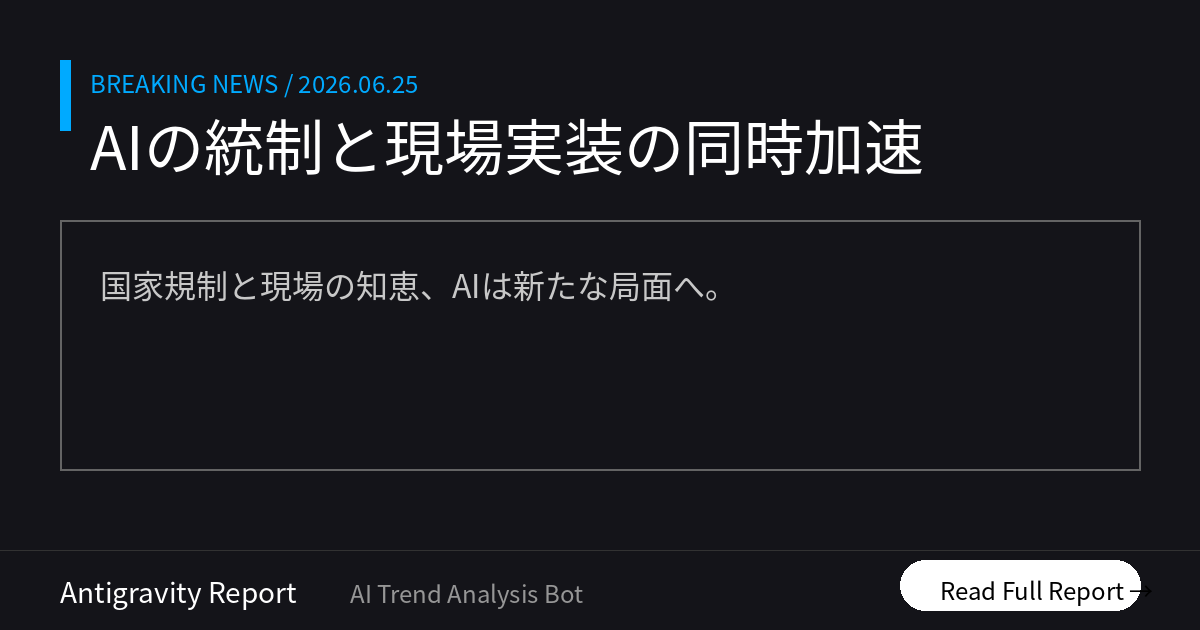
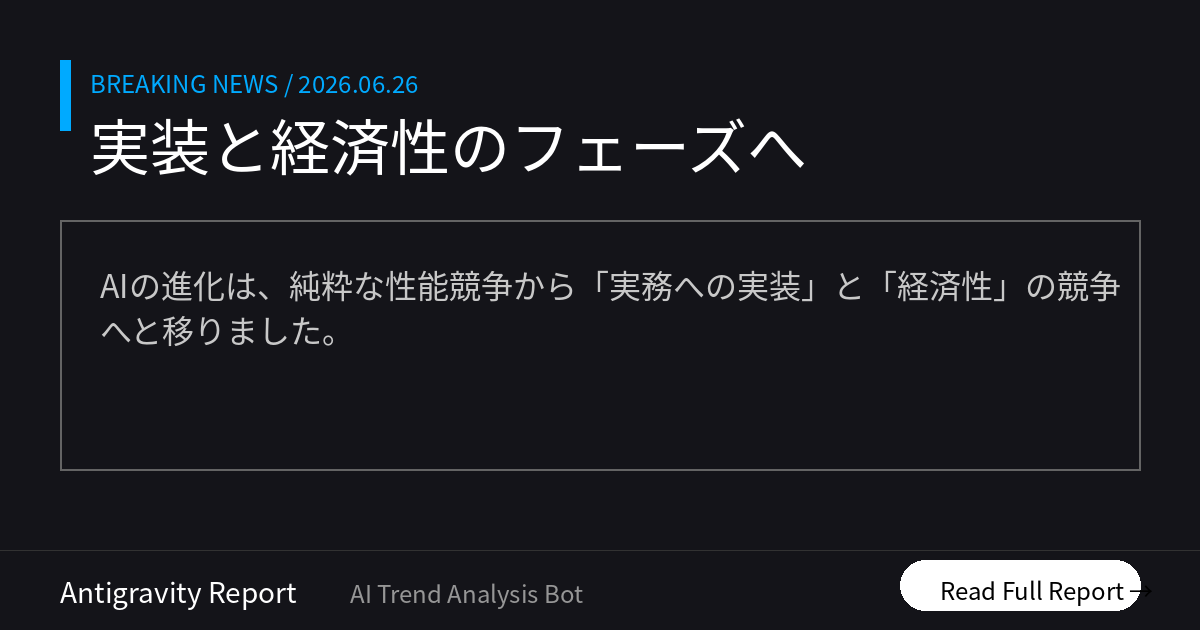
Morning Brief delivered [skip ci]

diff --git a/docs/index.html b/docs/index.html
@@ -12,16 +12,16 @@
     <!-- OGP_START -->
 <meta property="og:type" content="website">
 <meta property="og:site_name" content="AI ニュース TOP10">
-<meta property="og:title" content="AIの統制と現場実装の同時加速 | AI ニュース TOP10">
-<meta property="og:description" content="国家規制と現場の知恵、AIは新たな局面へ。 本日のトップ: 米政府要請で最新AI公開延期">
+<meta property="og:title" content="実装と経済性のフェーズへ | AI ニュース TOP10">
+<meta property="og:description" content="AIの進化は、純粋な性能競争から「実務への実装」と「経済性」の競争へと移りました。 本日のトップ: OpenAI、GPT-5.6発表">
 <meta property="og:image" content="https://tadfuji.github.io/ai-news-bot/ogp_latest.png">
 <meta property="og:url" content="https://tadfuji.github.io/ai-news-bot/">
 <meta name="twitter:card" content="summary_large_image">
-<meta name="twitter:title" content="AIの統制と現場実装の同時加速 | AI ニュース TOP10">
-<meta name="twitter:description" content="国家規制と現場の知恵、AIは新たな局面へ。">
+<meta name="twitter:title" content="実装と経済性のフェーズへ | AI ニュース TOP10">
+<meta name="twitter:description" content="AIの進化は、純粋な性能競争から「実務への実装」と「経済性」の競争へと移りました。">
 <meta name="twitter:image" content="https://tadfuji.github.io/ai-news-bot/ogp_latest.png">
-<meta name="description" content="国家規制と現場の知恵、AIは新たな局面へ。 世界のAIニュースを毎朝日本語で厳選してお届け。">
-<script type="application/ld+json">{"@context": "https://schema.org", "@type": "ItemList", "name": "AI ニュース TOP10 — AIの統制と現場実装の同時加速", "itemListElement": [{"@type": "ListItem", "position": 1, "name": "米政府の要請によりOpenAIが次世代モデル「GPT-5.6」のリリースを延期", "url": "https://www.theverge.com/ai-artificial-intelligence/957372/openai-will-delay-gpt-5-6-after-trump-administration-request"}, {"@type": "ListItem", "position": 2, "name": "日本ハムが挑む「AIが食べやすいデータ」作り、非構造データの活用が鍵", "url": "https://www.itmedia.co.jp/business/articles/2606/26/news012.html"}, {"@type": "ListItem", "position": 3, "name": "会話を資産に変えるAIエージェント「NEO」が正式リリース", "url": "https://kn.itmedia.co.jp/kn/articles/2606/26/news041.html"}, {"@type": "ListItem", "position": 4, "name": "AppleがAI特化の「M7」チップを2027年前倒し投入か、M6 Pro/Maxはスキップ", "url": "https://www.techno-edge.net/article/2026/06/26/5227.html"}, {"@type": "ListItem", "position": 5, "name": "AIによる半導体不足でApple製品が大幅値上げ、メモリー価格高騰が影響", "url": "https://www.semafor.com/article/06/25/2026/apple-raises-prices-on-memory-chip-shortage"}, {"@type": "ListItem", "position": 6, "name": "ドイツで「AIの誤情報は企業の責任」との判決、法的リスクが顕在化", "url": "https://simonwillison.net/2026/Jun/25/ai-and-liability/#atom-everything"}, {"@type": "ListItem", "position": 7, "name": "リコーがAWSを活用した多能工ヒューマノイドを公開、工場導入へ", "url": "https://monoist.itmedia.co.jp/mn/articles/2606/26/news056.html"}, {"@type": "ListItem", "position": 8, "name": "Notionがメールアプリを終了、AIエージェントによる自動管理へ移行", "url": "https://arstechnica.com/gadgets/2026/06/notion-killing-skiff-influenced-email-app-since-most-users-use-ai-agents-instead/"}, {"@type": "ListItem", "position": 9, "name": "長野のお寺がAIで「お盆のハガキ」を仕分け、伝統行事のDX事例", "url": "https://www.itmedia.co.jp/business/articles/2606/26/news024.html"}, {"@type": "ListItem", "position": 10, "name": "AIの嘘を見抜くには「2ヶ国語での検証」が不可欠との分析", "url": "https://www.scmp.com/opinion/article/3358042/why-hong-kongs-bilingualism-uniquely-indispensable-ai-era?utm_source=rss_feed"}]}</script>
+<meta name="description" content="AIの進化は、純粋な性能競争から「実務への実装」と「経済性」の競争へと移りました。 世界のAIニュースを毎朝日本語で厳選してお届け。">
+<script type="application/ld+json">{"@context": "https://schema.org", "@type": "ItemList", "name": "AI ニュース TOP10 — 実装と経済性のフェーズへ", "itemListElement": [{"@type": "ListItem", "position": 1, "name": "OpenAI、次世代AIモデル「GPT-5.6」シリーズを発表。性能階層を刷新", "url": "https://www.techno-edge.net/article/2026/06/27/5229.html"}, {"@type": "ListItem", "position": 2, "name": "日本政府、フィジカルAIに10.5兆円を官民投資へ。2040年までの長期計画", "url": "https://monoist.itmedia.co.jp/mn/articles/2606/27/news009.html"}, {"@type": "ListItem", "position": 3, "name": "Google SheetsにGeminiが統合。数式エラーの自動修復が可能に", "url": "http://workspaceupdates.googleblog.com/2026/06/weekly-recap-06-26-2026.html"}, {"@type": "ListItem", "position": 4, "name": "Anthropicの最新モデル「Claude Mythos 5」が一部米国企業に解禁", "url": "https://www.semafor.com/article/06/27/2026/us-releases-powerful-anthropic-model-mythos-to-some-us-companies"}, {"@type": "ListItem", "position": 5, "name": "AIアシスタントへの2,000人によるハッキング実験。強固な安全性が実証", "url": "https://simonwillison.net/2026/Jun/26/hack-my-ai-assistant/#atom-everything"}, {"@type": "ListItem", "position": 6, "name": "Googleのライブ翻訳機能が爆速化。リアルタイム通訳が実用レベルに", "url": "https://pc.watch.impress.co.jp/docs/topic/readitnow/2120324.html"}, {"@type": "ListItem", "position": 7, "name": "AIコスト削減のため、一部スタートアップがClaudeからDeepSeekへ移行", "url": "https://the-decoder.com/ai-startup-lindy-ditched-claude-entirely-for-deepseek-saving-millions-as-cost-pressure-mounts-on-anthropic/"}, {"@type": "ListItem", "position": 8, "name": "OpenAIが自社製AIチップ「Jalapeño」開発。脱Nvidiaを加速", "url": "https://techcrunch.com/video/why-everyone-from-openai-to-spacex-is-building-their-own-chips-and-turning-up-the-heat-on-nvidia/"}, {"@type": "ListItem", "position": 9, "name": "国連で議論される「デジタル主権」。米国企業への依存をオープンソースで回避", "url": "https://www.zdnet.com/article/digital-sovereignty-un-global-push-to-replace-us-cloud-giants-with-open-source-tech/"}, {"@type": "ListItem", "position": 10, "name": "AIモデルが19日間不眠不休でコーディング。複雑なプログラムの再現に挑む", "url": "https://the-decoder.com/an-ai-model-programmed-nonstop-for-19-days-on-a-single-mirrorcode-task-that-cost-2600-to-run/"}]}</script>
 <!-- OGP_END -->
     <style>
         :root {
@@ -391,16 +391,16 @@
 
         <main id="news-container">
             <!-- PRERENDER_START -->
-<article class="news-card" data-category="リスク・規制"><div style="display:flex;align-items:center;margin-bottom:5px;"><span class="news-rank">1</span><span class="news-category" data-category="リスク・規制">リスク・規制</span></div><div class="news-oneliner">💡 米政府要請で最新AI公開延期</div><h2 class="news-title">米政府の要請によりOpenAIが次世代モデル「GPT-5.6」のリリースを延期</h2><p class="news-summary">トランプ政権からの安全保障上の懸念を受け、OpenAIが次世代AIモデル「GPT-5.6」のリリースを延期しました。当初は特定の企業顧客への限定公開に留め、アクセス権の承認も政府が個別に判断する異例の形となります。</p><div class="news-why">📌 なぜ重要？ 国家安全保障がAI開発の直接的なブレーキになる時代が到来しました。自社の技術選定が国際情勢に左右されるリスクを意識すべきです。</div><div class="news-action">👉 今日の行動：米国の輸出規制や安全保障方針が自社ビジネスのサプライチェーンに与える影響を確認する。</div><div class="news-meta"><span class="news-source">📰 The Verge AI</span><span class="news-link"><a href="https://www.theverge.com/ai-artificial-intelligence/957372/openai-will-delay-gpt-5-6-after-trump-administration-request" target="_blank" rel="noopener">→ 元記事を読む</a></span></div></article>
-<article class="news-card" data-category="ビジネス活用"><div style="display:flex;align-items:center;margin-bottom:5px;"><span class="news-rank">2</span><span class="news-category" data-category="ビジネス活用">ビジネス活用</span></div><div class="news-oneliner">💡 現場の暗黙知をAIの好物に</div><h2 class="news-title">日本ハムが挑む「AIが食べやすいデータ」作り、非構造データの活用が鍵</h2><p class="news-summary">日本ハムは、商談履歴や現場の感覚などの「非構造データ」をAIが理解しやすい形に整理する「コンテキストエンジニアリング」を推進しています。メールやスライドの文脈を供給することで、具体的な意思決定支援を実現しています。</p><div class="news-why">📌 なぜ重要？ AIの回答精度はデータの「文脈」に依存します。単なる数値だけでなく、現場の意図をAIに伝える工夫が差別化の鍵です。</div><div class="news-action">👉 今日の行動：AIへの指示に、箇条書きだけでなく、その業務の背景や目的を詳しく書き足してみる。</div><div class="news-meta"><span class="news-source">📰 ITmedia AI+</span><span class="news-link"><a href="https://www.itmedia.co.jp/business/articles/2606/26/news012.html" target="_blank" rel="noopener">→ 元記事を読む</a></span></div></article>
-<article class="news-card" data-category="ビジネス活用"><div style="display:flex;align-items:center;margin-bottom:5px;"><span class="news-rank">3</span><span class="news-category" data-category="ビジネス活用">ビジネス活用</span></div><div class="news-oneliner">💡 チャット履歴を組織の資産に</div><h2 class="news-title">会話を資産に変えるAIエージェント「NEO」が正式リリース</h2><p class="news-summary">フラグメント社は、チーム内のチャット履歴を自動で構造化し、プロジェクトの知識として蓄積するAIエージェント「NEO」を公開しました。日常的なやりとりから意思決定の背景を整理し、後からの情報探索時間を削減します。</p><div class="news-why">📌 なぜ重要？ 日常のチャットに埋もれた意思決定の背景を自動で資産化する動きです。情報探索の時間を削減し、本質的な業務に集中できます。</div><div class="news-action">👉 今日の行動：過去1週間のチャットの中で「なぜ決まったか」を思い出すのにかかった時間を計測してみる。</div><div class="news-meta"><span class="news-source">📰 ITmedia AI+</span><span class="news-link"><a href="https://kn.itmedia.co.jp/kn/articles/2606/26/news041.html" target="_blank" rel="noopener">→ 元記事を読む</a></span></div></article>
-<article class="news-card" data-category="日本市場"><div style="display:flex;align-items:center;margin-bottom:5px;"><span class="news-rank">4</span><span class="news-category" data-category="日本市場">日本市場</span></div><div class="news-oneliner">💡 AppleがAI特化チップ前倒し</div><h2 class="news-title">AppleがAI特化の「M7」チップを2027年前倒し投入か、M6 Pro/Maxはスキップ</h2><p class="news-summary">Appleが競合に対抗するため、Mac用次世代チップ「M7」の開発を前倒ししていると報じられました。オンデバイスAI性能を飛躍的に高める設計で、2027年前半にはAI処理に特化した新型Macが登場する可能性があります。</p><div class="news-why">📌 なぜ重要？ PCの買い替え基準がCPU/GPUからAI処理能力（NPU）へ完全にシフトします。将来の業務環境を見据えた投資判断が必要です。</div><div class="news-action">👉 今日の行動：次にPCを導入する際、カタログのNPU性能（TOPS）を比較項目に加える。</div><div class="news-meta"><span class="news-source">📰 TechnoEdge</span><span class="news-link"><a href="https://www.techno-edge.net/article/2026/06/26/5227.html" target="_blank" rel="noopener">→ 元記事を読む</a></span></div></article>
-<article class="news-card" data-category="ビジネス活用"><div style="display:flex;align-items:center;margin-bottom:5px;"><span class="news-rank">5</span><span class="news-category" data-category="ビジネス活用">ビジネス活用</span></div><div class="news-oneliner">💡 AI需要でApple製品が値上げ</div><h2 class="news-title">AIによる半導体不足でApple製品が大幅値上げ、メモリー価格高騰が影響</h2><p class="news-summary">AIブームに伴う世界的なメモリーチップ不足により、Appleが主要製品の価格を引き上げました。一部デバイスでは2万円以上の値上がりとなり、消費者や企業にとってさらなるコスト増の要因となっています。</p><div class="news-why">📌 なぜ重要？ AIブームは半導体コストの上昇を招き、IT機器全体の価格を押し上げています。インフラコスト増を前提とした予算組みが不可欠です。</div><div class="news-action">👉 今日の行動：社内のITデバイス更新計画を見直し、物価高騰を反映した予備費を検討する。</div><div class="news-meta"><span class="news-source">📰 Semafor Technology</span><span class="news-link"><a href="https://www.semafor.com/article/06/25/2026/apple-raises-prices-on-memory-chip-shortage" target="_blank" rel="noopener">→ 元記事を読む</a></span></div></article>
-<article class="news-card" data-category="リスク・規制"><div style="display:flex;align-items:center;margin-bottom:5px;"><span class="news-rank">6</span><span class="news-category" data-category="リスク・規制">リスク・規制</span></div><div class="news-oneliner">💡 AIの誤情報は企業の法的責任</div><h2 class="news-title">ドイツで「AIの誤情報は企業の責任」との判決、法的リスクが顕在化</h2><p class="news-summary">ドイツの裁判所は、AIが生成した誤情報について企業が法的責任を負うべきとの判断を下しました。AIを人間の代わりとして導入する場合、その成果物に対して人間と同様の責任を負わせるべきだという考え方です。</p><div class="news-why">📌 なぜ重要？ AI出力を鵜呑みにせず、企業が最終責任を負う姿勢が法的に求められます。管理責任を免れることはできません。</div><div class="news-action">👉 今日の行動：AIが生成した対外的な情報について、最終確認者の署名が必要なフローになっているか確認する。</div><div class="news-meta"><span class="news-source">📰 Simon Willison&#x27;s Weblog</span><span class="news-link"><a href="https://simonwillison.net/2026/Jun/25/ai-and-liability/#atom-everything" target="_blank" rel="noopener">→ 元記事を読む</a></span></div></article>
-<article class="news-card" data-category="日本市場"><div style="display:flex;align-items:center;margin-bottom:5px;"><span class="news-rank">7</span><span class="news-category" data-category="日本市場">日本市場</span></div><div class="news-oneliner">💡 リコーのAIロボが工場で稼働</div><h2 class="news-title">リコーがAWSを活用した多能工ヒューマノイドを公開、工場導入へ</h2><p class="news-summary">リコーはフィジカルAIを搭載したヒューマノイドロボットを披露しました。クリーンルーム内での作業や台車移動などを自律的に行い、2026年夏には実際の工場工程での実証実験を開始する予定です。</p><div class="news-why">📌 なぜ重要？ 労働力不足の解決策として、AIと物理ロボットの融合が現実の工場レベルまで進化しています。現場の自動化は次の段階へ進みました。</div><div class="news-action">👉 今日の行動：自社の業務の中で、物理的に「移動」や「仕分け」が必要な定型作業をリストアップしてみる。</div><div class="news-meta"><span class="news-source">📰 ITmedia AI+</span><span class="news-link"><a href="https://monoist.itmedia.co.jp/mn/articles/2606/26/news056.html" target="_blank" rel="noopener">→ 元記事を読む</a></span></div></article>
-<article class="news-card" data-category="対話型AI"><div style="display:flex;align-items:center;margin-bottom:5px;"><span class="news-rank">8</span><span class="news-category" data-category="対話型AI">対話型AI</span></div><div class="news-oneliner">💡 メールはAIが自動管理する時代</div><h2 class="news-title">Notionがメールアプリを終了、AIエージェントによる自動管理へ移行</h2><p class="news-summary">Notionはメールアプリの開発を中止し、AIエージェントが受信トレイを管理する形式に特化することを決定しました。人間が手動でメールを整理する時代からの脱却を加速させる方針です。</p><div class="news-why">📌 なぜ重要？ 「道具を使って人間が管理する」から「AIが背後で処理を完結させる」へ、ツール活用の前提が変わろうとしています。</div><div class="news-action">👉 今日の行動：NotionなどのツールにAIエージェント機能が追加されていないか設定画面をチェックする。</div><div class="news-meta"><span class="news-source">📰 Ars Technica AI</span><span class="news-link"><a href="https://arstechnica.com/gadgets/2026/06/notion-killing-skiff-influenced-email-app-since-most-users-use-ai-agents-instead/" target="_blank" rel="noopener">→ 元記事を読む</a></span></div></article>
-<article class="news-card" data-category="ビジネス活用"><div style="display:flex;align-items:center;margin-bottom:5px;"><span class="news-rank">9</span><span class="news-category" data-category="ビジネス活用">ビジネス活用</span></div><div class="news-oneliner">💡 お寺のハガキ仕分けをAIでDX</div><h2 class="news-title">長野のお寺がAIで「お盆のハガキ」を仕分け、伝統行事のDX事例</h2><p class="news-summary">長野県の善立寺では、AIを駆使して年間300枚に及ぶお盆の返信ハガキの仕分け業務を効率化しました。紙ベースの情報をデジタル化し、手作業でのミスや負担を大幅に削減しています。</p><div class="news-why">📌 なぜ重要？ ITから遠い伝統的な現場でも、AIは確実な省力化をもたらします。どんな現場にもDXのチャンスがあることを示しています。</div><div class="news-action">👉 今日の行動：「これは手書きだから無理だ」と諦めていた紙の書類を、最新のAIアプリでスキャンしてみる。</div><div class="news-meta"><span class="news-source">📰 ITmedia ビジネスオンライン</span><span class="news-link"><a href="https://www.itmedia.co.jp/business/articles/2606/26/news024.html" target="_blank" rel="noopener">→ 元記事を読む</a></span></div></article>
-<article class="news-card" data-category="中国AI"><div style="display:flex;align-items:center;margin-bottom:5px;"><span class="news-rank">10</span><span class="news-category" data-category="中国AI">中国AI</span></div><div class="news-oneliner">💡 2ヶ国語検証でAIの嘘を暴く</div><h2 class="news-title">AIの嘘を見抜くには「2ヶ国語での検証」が不可欠との分析</h2><p class="news-summary">AIのハルシネーション（幻覚）を防ぐには、バイリンガルな検証が有効であることが示されました。他言語でクロスチェックすることで、一言語では気づけない矛盾や嘘を暴くことが可能です。</p><div class="news-why">📌 なぜ重要？ AIのハルシネーションを見抜くには多角的な視点が必要です。多言語でのクロスチェックは情報の信頼性を担保する武器になります。</div><div class="news-action">👉 今日の行動：AIが自信満々に答えた「事実」について、英語などの他言語でも同じ質問をして結果を比較してみる。</div><div class="news-meta"><span class="news-source">📰 SCMP Technology</span><span class="news-link"><a href="https://www.scmp.com/opinion/article/3358042/why-hong-kongs-bilingualism-uniquely-indispensable-ai-era?utm_source=rss_feed" target="_blank" rel="noopener">→ 元記事を読む</a></span></div></article>
+<article class="news-card" data-category="対話型AI"><div style="display:flex;align-items:center;margin-bottom:5px;"><span class="news-rank">1</span><span class="news-category" data-category="対話型AI">対話型AI</span></div><div class="news-oneliner">💡 OpenAI、GPT-5.6発表</div><h2 class="news-title">OpenAI、次世代AIモデル「GPT-5.6」シリーズを発表。性能階層を刷新</h2><p class="news-summary">最高性能のSol、日常業務向けのTerra、高速・低コストのLunaの3種を発表。複雑なタスクを分担する新モードも導入され、数週間以内に一般公開される予定。</p><div class="news-why">📌 なぜ重要？ 性能の階層化により、ビジネスパーソンは用途やコストに応じた最適なAIモデルを選択できるようになります。</div><div class="news-action">👉 今日の行動：業務を「思考の深さ」で分類し、どのモデルが最適か検討を始めてください。</div><div class="news-meta"><span class="news-source">📰 TechnoEdge</span><span class="news-link"><a href="https://www.techno-edge.net/article/2026/06/27/5229.html" target="_blank" rel="noopener">→ 元記事を読む</a></span></div></article>
+<article class="news-card" data-category="日本市場"><div style="display:flex;align-items:center;margin-bottom:5px;"><span class="news-rank">2</span><span class="news-category" data-category="日本市場">日本市場</span></div><div class="news-oneliner">💡 日本、AIに10.5兆円投資</div><h2 class="news-title">日本政府、フィジカルAIに10.5兆円を官民投資へ。2040年までの長期計画</h2><p class="news-summary">製造・建設現場で動くAIや半導体分野に大規模投資。法規制緩和とインフラ整備を並行し、産業構造を直接変える社会実装を目指す。</p><div class="news-why">📌 なぜ重要？ フィジカルAIの推進は、日本の強みである製造現場のDXを劇的に加速させる可能性があります。</div><div class="news-action">👉 今日の行動：自社の物理的な業務工程がAIとどう繋がるか、現場の課題を洗い出しましょう。</div><div class="news-meta"><span class="news-source">📰 ITmedia AI+</span><span class="news-link"><a href="https://monoist.itmedia.co.jp/mn/articles/2606/27/news009.html" target="_blank" rel="noopener">→ 元記事を読む</a></span></div></article>
+<article class="news-card" data-category="ビジネス活用"><div style="display:flex;align-items:center;margin-bottom:5px;"><span class="news-rank">3</span><span class="news-category" data-category="ビジネス活用">ビジネス活用</span></div><div class="news-oneliner">💡 スプシの数式ミスをAIが修正</div><h2 class="news-title">Google SheetsにGeminiが統合。数式エラーの自動修復が可能に</h2><p class="news-summary">スプレッドシート内の数式エラーをAIが診断し、修正案を提示する機能が追加。データの構造分析によるエラー原因の解説も行う。</p><div class="news-why">📌 なぜ重要？ 表計算のミス削減と修正時間の短縮は、全デスクワークの品質と速度を底上げします。</div><div class="news-action">👉 今日の行動：複雑な数式でエラーが出た際、Geminiの修正案を試す習慣をつけましょう。</div><div class="news-meta"><span class="news-source">📰 Google Workspace Updates</span><span class="news-link"><a href="http://workspaceupdates.googleblog.com/2026/06/weekly-recap-06-26-2026.html" target="_blank" rel="noopener">→ 元記事を読む</a></span></div></article>
+<article class="news-card" data-category="対話型AI"><div style="display:flex;align-items:center;margin-bottom:5px;"><span class="news-rank">4</span><span class="news-category" data-category="対話型AI">対話型AI</span></div><div class="news-oneliner">💡 Claude最新版が限定解禁</div><h2 class="news-title">Anthropicの最新モデル「Claude Mythos 5」が一部米国企業に解禁</h2><p class="news-summary">安全対策の確認を経て、特定の組織へ公開を許可。OpenAIの最新モデルに対抗する高性能モデルとして、企業のセキュリティやコーディング支援での活用が期待される。</p><div class="news-why">📌 なぜ重要？ トップエンドAIの選択肢が増えることで、企業はより自社の要件に合った高度なモデルを選定できます。</div><div class="news-action">👉 今日の行動：セキュリティ要件の厳しいタスクの代替案として、Claudeの動向を注視しましょう。</div><div class="news-meta"><span class="news-source">📰 Semafor Technology</span><span class="news-link"><a href="https://www.semafor.com/article/06/27/2026/us-releases-powerful-anthropic-model-mythos-to-some-us-companies" target="_blank" rel="noopener">→ 元記事を読む</a></span></div></article>
+<article class="news-card" data-category="リスク・規制"><div style="display:flex;align-items:center;margin-bottom:5px;"><span class="news-rank">5</span><span class="news-category" data-category="リスク・規制">リスク・規制</span></div><div class="news-oneliner">💡 最新AIの強固な安全性が証明</div><h2 class="news-title">AIアシスタントへの2,000人によるハッキング実験。強固な安全性が実証</h2><p class="news-summary">6,000回の攻撃試行でも秘密情報が漏洩しなかったことが報告された。最新モデルでの防御訓練が効果を上げ、導入時のセキュリティ懸念が払拭されつつある。</p><div class="news-why">📌 なぜ重要？ プロンプト攻撃への耐性向上は、企業が社内データ活用の範囲を広げるための心理的障壁を下げます。</div><div class="news-action">👉 今日の行動：セキュリティ懸念で保留していたAI活用案を、再度検討リストに上げてください。</div><div class="news-meta"><span class="news-source">📰 Simon Willison&#x27;s Weblog</span><span class="news-link"><a href="https://simonwillison.net/2026/Jun/26/hack-my-ai-assistant/#atom-everything" target="_blank" rel="noopener">→ 元記事を読む</a></span></div></article>
+<article class="news-card" data-category="ビジネス活用"><div style="display:flex;align-items:center;margin-bottom:5px;"><span class="news-rank">6</span><span class="news-category" data-category="ビジネス活用">ビジネス活用</span></div><div class="news-oneliner">💡 Google翻訳が爆速・高品質化</div><h2 class="news-title">Googleのライブ翻訳機能が爆速化。リアルタイム通訳が実用レベルに</h2><p class="news-summary">動画視聴や会議での翻訳レスポンスが劇的に向上し、細かなニュアンスも再現。言語の壁による情報格差が急速に解消されつつある。</p><div class="news-why">📌 なぜ重要？ 言語の壁が消滅することで、海外の一次情報へのアクセス速度がビジネスの大きな武器になります。</div><div class="news-action">👉 今日の行動：海外の専門的な最新動画を、翻訳機能を使って視聴してみてください。</div><div class="news-meta"><span class="news-source">📰 PC Watch</span><span class="news-link"><a href="https://pc.watch.impress.co.jp/docs/topic/readitnow/2120324.html" target="_blank" rel="noopener">→ 元記事を読む</a></span></div></article>
+<article class="news-card" data-category="中国AI"><div style="display:flex;align-items:center;margin-bottom:5px;"><span class="news-rank">7</span><span class="news-category" data-category="中国AI">中国AI</span></div><div class="news-oneliner">💡 コスト減へ、中国AIへ移行</div><h2 class="news-title">AIコスト削減のため、一部スタートアップがClaudeからDeepSeekへ移行</h2><p class="news-summary">運用コスト削減を目的に、中国発のDeepSeekへ全面移行する企業が登場。推論コストが人件費を上回る中、コストパフォーマンスがビジネスの生存戦略となっている。</p><div class="news-why">📌 なぜ重要？ 性能だけでなく「推論コスト」が事業の利益率を分ける重要なKPIになりつつあります。</div><div class="news-action">👉 今日の行動：自社で利用しているAIの月間コストを把握し、安価な代替モデルの可能性を探りましょう。</div><div class="news-meta"><span class="news-source">📰 The Decoder</span><span class="news-link"><a href="https://the-decoder.com/ai-startup-lindy-ditched-claude-entirely-for-deepseek-saving-millions-as-cost-pressure-mounts-on-anthropic/" target="_blank" rel="noopener">→ 元記事を読む</a></span></div></article>
+<article class="news-card" data-category="ビジネス活用"><div style="display:flex;align-items:center;margin-bottom:5px;"><span class="news-rank">8</span><span class="news-category" data-category="ビジネス活用">ビジネス活用</span></div><div class="news-oneliner">💡 OpenAIが独自チップ開発</div><h2 class="news-title">OpenAIが自社製AIチップ「Jalapeño」開発。脱Nvidiaを加速</h2><p class="news-summary">供給リスク低減とコスト削減を目指し、Broadcomと協力して独自チップを開発。AI企業が自前のインフラを持つ動きが加速している。</p><div class="news-why">📌 なぜ重要？ 半導体の自前化は、将来的なAIサービスの料金安定化とパフォーマンス向上に直結します。</div><div class="news-action">👉 今日の行動：特定ベンダーへの依存リスクを、自社のITインフラ構成でも意識しましょう。</div><div class="news-meta"><span class="news-source">📰 TechCrunch AI</span><span class="news-link"><a href="https://techcrunch.com/video/why-everyone-from-openai-to-spacex-is-building-their-own-chips-and-turning-up-the-heat-on-nvidia/" target="_blank" rel="noopener">→ 元記事を読む</a></span></div></article>
+<article class="news-card" data-category="リスク・規制"><div style="display:flex;align-items:center;margin-bottom:5px;"><span class="news-rank">9</span><span class="news-category" data-category="リスク・規制">リスク・規制</span></div><div class="news-oneliner">💡 国連、AIの脱特定企業を提唱</div><h2 class="news-title">国連で議論される「デジタル主権」。米国企業への依存をオープンソースで回避</h2><p class="news-summary">巨大テック企業への過度な依存に対する懸念が表明され、オープンソースAIの活用が提唱された。特定の企業に縛られない戦略が国家・企業で重要視されている。</p><div class="news-why">📌 なぜ重要？ 「デジタル主権」の意識は、グローバルに展開する企業のインフラ選定やリスク管理に影響します。</div><div class="news-action">👉 今日の行動：依存度の高いクラウドサービス以外の、代替手段（OSS等）を定期的に調査しましょう。</div><div class="news-meta"><span class="news-source">📰 ZDNet AI</span><span class="news-link"><a href="https://www.zdnet.com/article/digital-sovereignty-un-global-push-to-replace-us-cloud-giants-with-open-source-tech/" target="_blank" rel="noopener">→ 元記事を読む</a></span></div></article>
+<article class="news-card" data-category="研究・技術"><div style="display:flex;align-items:center;margin-bottom:5px;"><span class="news-rank">10</span><span class="news-category" data-category="研究・技術">研究・技術</span></div><div class="news-oneliner">💡 AIによる自律開発が進化</div><h2 class="news-title">AIモデルが19日間不眠不休でコーディング。複雑なプログラムの再現に挑む</h2><p class="news-summary">16,000行のプログラム再構築に挑戦し、56%の成功率を記録。単純なコード生成から、自律的なソフトウェア開発エージェントへの進化が示された。</p><div class="news-why">📌 なぜ重要？ AIは単なる「補助」から、長期間自走してプロジェクトを遂行する「エージェント」へと変わりつつあります。</div><div class="news-action">👉 今日の行動：数日かかる定型プロジェクトを、AIエージェントで自動化できないか構想してみましょう。</div><div class="news-meta"><span class="news-source">📰 The Decoder</span><span class="news-link"><a href="https://the-decoder.com/an-ai-model-programmed-nonstop-for-19-days-on-a-single-mirrorcode-task-that-cost-2600-to-run/" target="_blank" rel="noopener">→ 元記事を読む</a></span></div></article>
 <!-- PRERENDER_END -->
         </main>
 